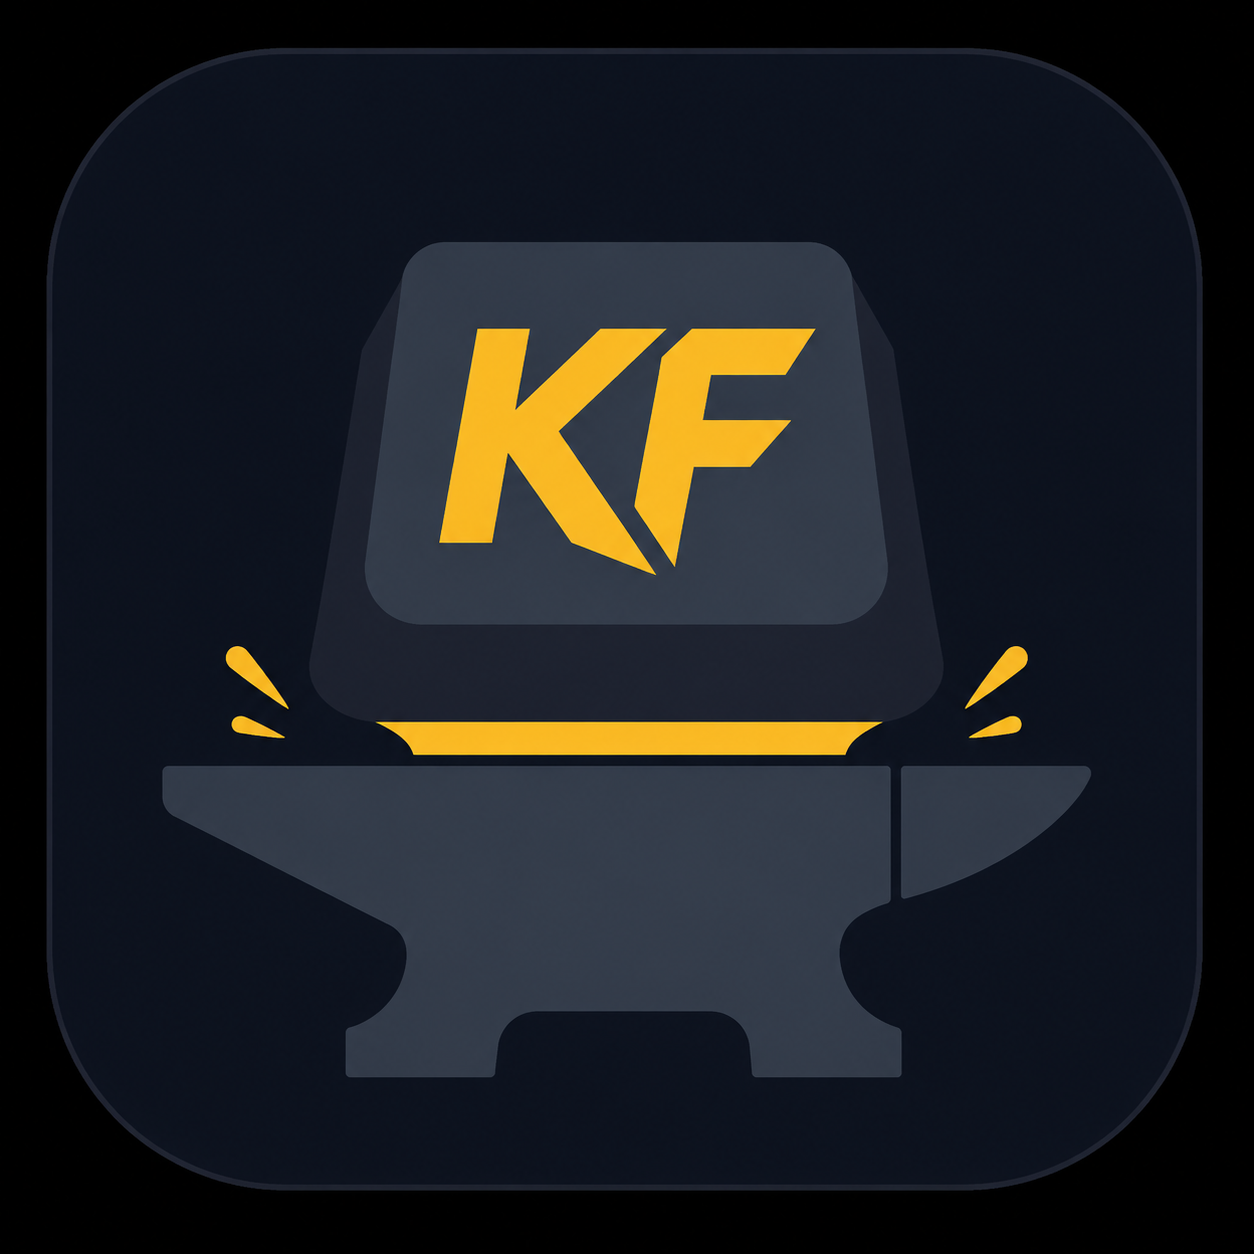
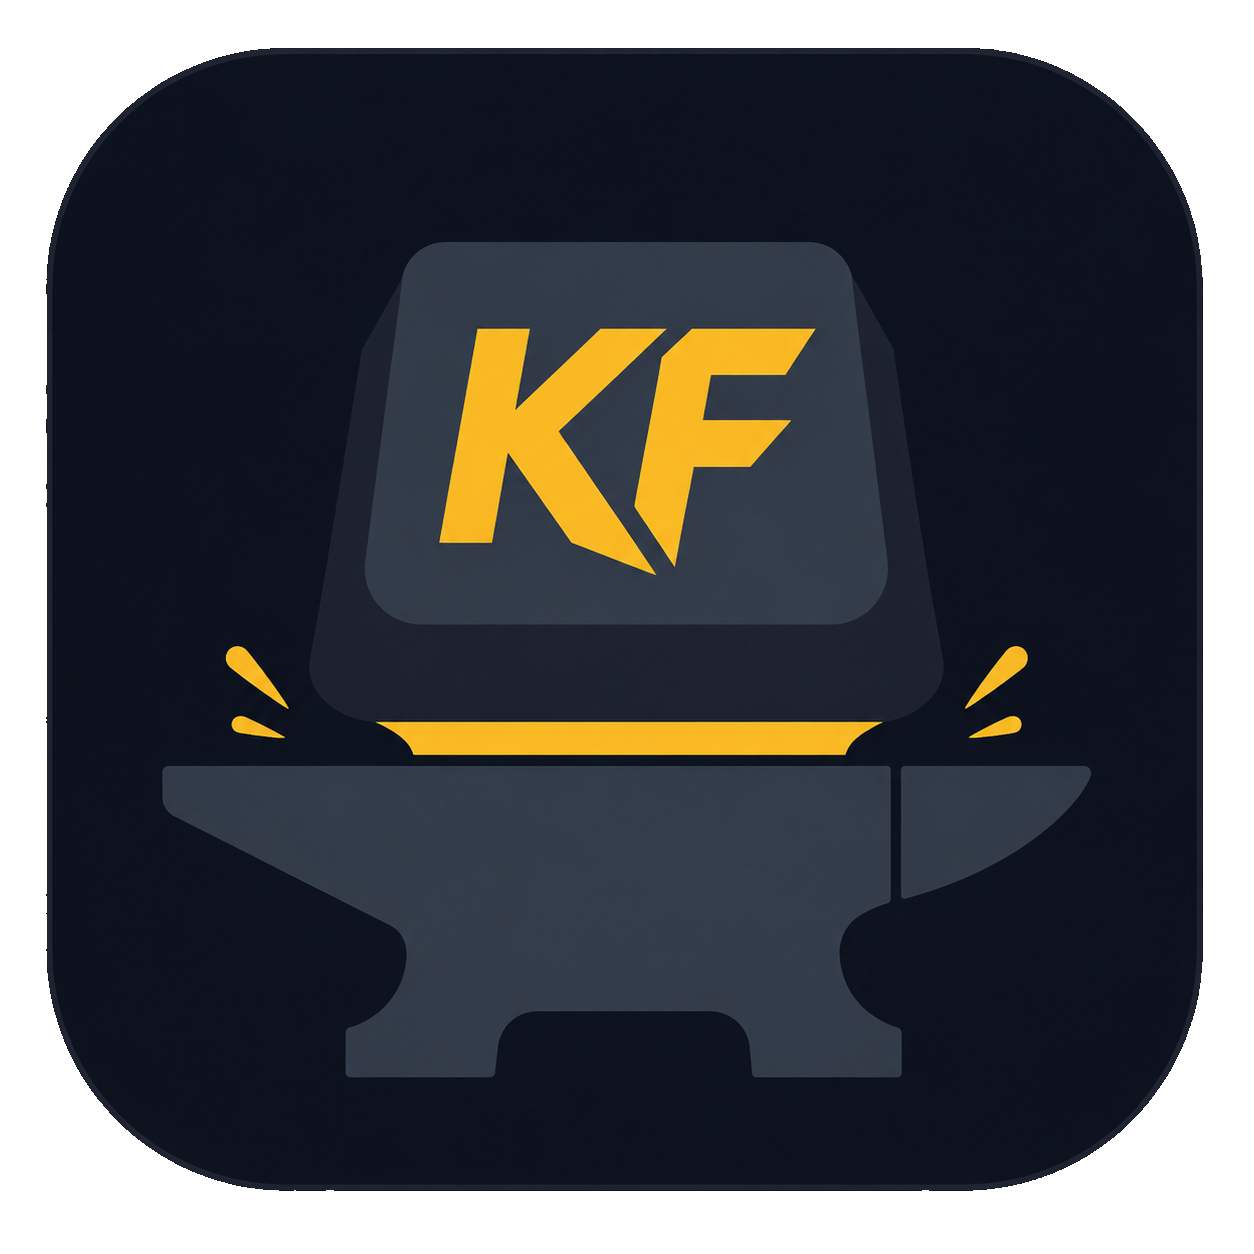
Release 0.1.26 UI cleanup

Changed region(s): [[0.0, 0.0, 1.0, 1.0]]

diff --git a/src/KeyForge.App/KeyEditorPopupWindow.xaml b/src/KeyForge.App/KeyEditorPopupWindow.xaml
@@ -8,6 +8,7 @@
         ResizeMode="NoResize"
         ShowInTaskbar="False"
         Topmost="True"
+        AllowsTransparency="True"
         Background="Transparent"
         Foreground="{DynamicResource TextBrush}"
         FontFamily="Segoe UI Variable, Segoe UI"
@@ -21,7 +22,6 @@
             <Grid Margin="0,0,0,10" MouseLeftButtonDown="TitleBar_MouseLeftButtonDown">
                 <Grid.ColumnDefinitions>
                     <ColumnDefinition Width="*" />
-                    <ColumnDefinition Width="Auto" />
                     <ColumnDefinition Width="32" />
                 </Grid.ColumnDefinitions>
                 <TextBlock x:Name="TitleText"
@@ -30,14 +30,7 @@
                            FontSize="15"
                            VerticalAlignment="Center"
                            TextTrimming="CharacterEllipsis" />
-                <StackPanel Grid.Column="1" Orientation="Horizontal" VerticalAlignment="Center">
-                    <TextBlock Text="Advanced" FontSize="10" FontWeight="SemiBold" Margin="0,0,6,0" VerticalAlignment="Center" />
-                    <CheckBox x:Name="AdvancedCheckBox"
-                              VerticalAlignment="Center"
-                              Checked="AdvancedCheckBox_Changed"
-                              Unchecked="AdvancedCheckBox_Changed" />
-                </StackPanel>
-                <Button Grid.Column="2"
+                <Button Grid.Column="1"
                         Content="&#xE8BB;"
                         Style="{StaticResource TitleBarButton}"
                         Width="28"
@@ -101,32 +94,31 @@
                 </Grid>
             </Button>
 
-            <StackPanel x:Name="AdvancedPanel" Visibility="Collapsed" Margin="0,10,0,0">
+            <StackPanel x:Name="BindingOptionsPanel" Visibility="Collapsed" Margin="0,8,0,0">
                 <Separator Background="{DynamicResource BorderBrush}" Margin="0,0,0,10" />
-                <Grid>
-                    <Grid.ColumnDefinitions>
-                        <ColumnDefinition Width="*" />
-                        <ColumnDefinition Width="*" />
-                    </Grid.ColumnDefinitions>
-                    <CheckBox x:Name="BlockOriginalCheckBox"
-                              Content="Block original"
-                              Checked="AdvancedOption_Changed"
-                              Unchecked="AdvancedOption_Changed" />
-                    <CheckBox x:Name="RepeatWhileHeldCheckBox"
-                              Grid.Column="1"
-                              Content="Repeat macro"
-                              Checked="AdvancedOption_Changed"
-                              Unchecked="AdvancedOption_Changed" />
-                </Grid>
+                <CheckBox x:Name="BlockOriginalCheckBox"
+                          Content="Block original"
+                          Checked="AdvancedOption_Changed"
+                          Unchecked="AdvancedOption_Changed" />
+            </StackPanel>
 
-                <Grid Margin="0,10,0,4">
+            <StackPanel x:Name="MacroPanel" Visibility="Collapsed" Margin="0,10,0,0">
+                <Grid Margin="0,0,0,4">
                     <Grid.ColumnDefinitions>
                         <ColumnDefinition Width="*" />
                         <ColumnDefinition Width="Auto" />
+                        <ColumnDefinition Width="Auto" />
                     </Grid.ColumnDefinitions>
                     <TextBlock Text="Macro Steps" FontWeight="SemiBold" FontSize="13" VerticalAlignment="Center" />
+                    <CheckBox x:Name="RepeatWhileHeldCheckBox"
+                              Grid.Column="1"
+                              Content="Repeat macro"
+                              Margin="0,0,12,0"
+                              VerticalAlignment="Center"
+                              Checked="AdvancedOption_Changed"
+                              Unchecked="AdvancedOption_Changed" />
                     <Button x:Name="TestMacroButton"
-                            Grid.Column="1"
+                            Grid.Column="2"
                             Content="Test Macro"
                             Click="TestMacroButton_Click"
                             MinHeight="30"
@@ -236,12 +228,15 @@
                                             </TextBlock.Style>
                                         </TextBlock>
                                     </Grid>
-                                    <TextBox Grid.Column="4"
-                                             Text="{Binding DelayMs, Mode=OneWay, TargetNullValue=''}"
-                                             LostFocus="MacroStepDelayTextBox_LostFocus"
-                                             KeyDown="MacroStepDelayTextBox_KeyDown"
-                                             Margin="4,0,4,0"
-                                             ToolTip="Delay in milliseconds" />
+                                     <TextBox Grid.Column="4"
+                                              Text="{Binding DelayMs, Mode=OneWay, TargetNullValue=''}"
+                                              LostFocus="MacroStepDelayTextBox_LostFocus"
+                                              KeyDown="MacroStepDelayTextBox_KeyDown"
+                                              HorizontalContentAlignment="Center"
+                                              VerticalContentAlignment="Center"
+                                              Padding="6,0"
+                                              Margin="4,0,4,0"
+                                              ToolTip="Delay in milliseconds" />
                                     <Button Grid.Column="5"
                                             Content="&#xE711;"
                                             FontFamily="Segoe MDL2 Assets"
@@ -260,40 +255,66 @@
 
                 <TextBlock Text="Add Step" Style="{StaticResource SectionLabel}" Margin="0,10,0,2" />
                 <Grid>
+                    <Grid.Resources>
+                        <Style x:Key="MacroComposerComboBox" TargetType="ComboBox" BasedOn="{StaticResource {x:Type ComboBox}}">
+                            <Setter Property="MinHeight" Value="30" />
+                            <Setter Property="Margin" Value="0" />
+                        </Style>
+                        <Style x:Key="MacroComposerTextBox" TargetType="TextBox" BasedOn="{StaticResource {x:Type TextBox}}">
+                            <Setter Property="MinHeight" Value="30" />
+                            <Setter Property="Padding" Value="6,0" />
+                            <Setter Property="Margin" Value="0" />
+                            <Setter Property="HorizontalContentAlignment" Value="Center" />
+                            <Setter Property="VerticalContentAlignment" Value="Center" />
+                        </Style>
+                        <Style x:Key="MacroComposerButton" TargetType="Button" BasedOn="{StaticResource {x:Type Button}}">
+                            <Setter Property="MinHeight" Value="30" />
+                            <Setter Property="Padding" Value="10,4" />
+                            <Setter Property="Margin" Value="0" />
+                        </Style>
+                    </Grid.Resources>
                     <Grid.ColumnDefinitions>
-                        <ColumnDefinition Width="112" />
-                        <ColumnDefinition Width="112" />
-                        <ColumnDefinition Width="96" />
+                        <ColumnDefinition Width="94" />
+                        <ColumnDefinition Width="86" />
                         <ColumnDefinition Width="82" />
+                        <ColumnDefinition Width="64" />
                         <ColumnDefinition Width="*" />
                     </Grid.ColumnDefinitions>
                     <ComboBox x:Name="MacroActionComboBox"
                               Grid.Column="0"
-                              Margin="0,4,5,0"
+                              Style="{StaticResource MacroComposerComboBox}"
+                              Margin="0,4,4,0"
                               SelectionChanged="MacroComposerAction_Changed" />
                     <ComboBox x:Name="MacroKeyComboBox"
                               Grid.Column="1"
-                              Margin="5,4,5,0"
+                              Style="{StaticResource MacroComposerComboBox}"
+                              Margin="4,4,4,0"
                               DisplayMemberPath="Label"
                               SelectedValuePath="Code" />
-                    <Grid x:Name="MacroDelayPlacementHost" Grid.Column="2" Margin="5,4,5,0">
-                        <ComboBox x:Name="MacroDelayPlacementComboBox" Margin="0" />
+                    <Grid x:Name="MacroDelayPlacementHost" Grid.Column="2" Margin="4,4,4,0">
+                        <ComboBox x:Name="MacroDelayPlacementComboBox"
+                                  Style="{StaticResource MacroComposerComboBox}" />
                         <TextBlock x:Name="MacroWaitOnlyText"
                                    Text="Duration"
                                    Style="{StaticResource MutedText}"
                                    VerticalAlignment="Center"
+                                   TextAlignment="Center"
                                    Visibility="Collapsed" />
                     </Grid>
                     <TextBox x:Name="MacroDelayTextBox"
                              Grid.Column="3"
+                             Style="{StaticResource MacroComposerTextBox}"
                              Text="0"
-                             Margin="5,4,5,0"
+                             Margin="4,4,4,0"
                              ToolTip="Delay in milliseconds" />
                     <Button x:Name="AddStepButton"
                             Grid.Column="4"
+                            Style="{StaticResource MacroComposerButton}"
                             Content="Add"
                             Click="AddStepButton_Click"
-                            Margin="5,4,0,0" />
+                            Width="62"
+                            HorizontalAlignment="Left"
+                            Margin="4,4,0,0" />
                 </Grid>
             </StackPanel>
 

diff --git a/src/KeyForge.App/MainWindow.xaml b/src/KeyForge.App/MainWindow.xaml
@@ -388,8 +388,14 @@
                                 <ColumnDefinition Width="1.12*" />
                             </Grid.ColumnDefinitions>
 
-                            <StackPanel Grid.Column="0" Margin="0,0,12,0">
-                                <Border Style="{StaticResource PanelCard}" Padding="14" Margin="0,0,0,12">
+                            <Grid Grid.Column="0" Margin="0,0,12,0">
+                                <Grid.RowDefinitions>
+                                    <RowDefinition Height="Auto" />
+                                    <RowDefinition Height="Auto" />
+                                    <RowDefinition Height="*" />
+                                </Grid.RowDefinitions>
+
+                                <Border Grid.Row="0" Style="{StaticResource PanelCard}" Padding="12" Margin="0,0,0,10">
                                     <StackPanel>
                                         <TextBlock Text="Updates" FontSize="18" FontWeight="Black" />
                                         <TextBlock Text="Manual release check" Style="{StaticResource SectionLabel}" Margin="0,8,0,0" />
@@ -437,7 +443,7 @@
                                     </StackPanel>
                                 </Border>
 
-                                <Border Style="{StaticResource PanelCard}" Padding="14" Margin="0,0,0,12">
+                                <Border Grid.Row="1" Style="{StaticResource PanelCard}" Padding="12" Margin="0,0,0,10">
                                     <StackPanel>
                                         <TextBlock Text="General" FontSize="17" FontWeight="Black" />
                                         <CheckBox x:Name="StartWithWindowsCheck" Content="Start with Windows" />
@@ -448,15 +454,24 @@
                                     </StackPanel>
                                 </Border>
 
-                                <Border Style="{StaticResource PanelCard}" Padding="14">
-                                    <StackPanel>
+                                <Border Grid.Row="2" Style="{StaticResource PanelCard}" Padding="12">
+                                    <Grid>
+                                        <Grid.RowDefinitions>
+                                            <RowDefinition Height="Auto" />
+                                            <RowDefinition Height="*" />
+                                        </Grid.RowDefinitions>
                                         <TextBlock Text="Fair Play / Anti-Cheat" FontSize="17" FontWeight="Black" />
-                                        <TextBlock Text="KeyForge only remaps keyboard input; it does not read game memory or interact with game files. Use profiles only where allowed; you are responsible for following game rules."
-                                                   Style="{StaticResource MutedText}"
-                                                   Margin="0,10,0,0" />
-                                    </StackPanel>
+                                        <ScrollViewer Grid.Row="1"
+                                                      Margin="0,8,0,0"
+                                                      VerticalScrollBarVisibility="Auto"
+                                                      HorizontalScrollBarVisibility="Disabled">
+                                            <TextBlock Text="KeyForge only remaps keyboard input; it does not read game memory or interact with game files. Use profiles only where allowed; you are responsible for following game rules."
+                                                       Style="{StaticResource MutedText}"
+                                                       TextWrapping="Wrap" />
+                                        </ScrollViewer>
+                                    </Grid>
                                 </Border>
-                            </StackPanel>
+                            </Grid>
 
                             <StackPanel Grid.Column="1" Margin="0,0,12,0">
                                 <Border Style="{StaticResource PanelCard}" Padding="14" Margin="0,0,0,12">

diff --git a/src/KeyForge.App/KeyEditorPopupWindow.xaml.cs b/src/KeyForge.App/KeyEditorPopupWindow.xaml.cs
@@ -112,7 +112,7 @@ public partial class KeyEditorPopupWindow : Window
             MacroDelayPlacementComboBox.SelectedItem = MacroStepDelayPlacement.After;
             MacroDelayTextBox.Text = "0";
             UpdateComposerVisibility();
-            UpdateAdvancedVisibility();
+            UpdateModeSections();
             UpdateWarning();
         }
         finally
@@ -139,7 +139,7 @@ public partial class KeyEditorPopupWindow : Window
             _editingBinding.Output = _macroSteps.Select(step => step.Clone()).ToList();
         }
 
-        UpdateAdvancedVisibility();
+        UpdateModeSections();
         UpdatePreview();
         if (_editingBinding.Type == BindingType.Disabled)
         {
@@ -430,8 +430,6 @@ public partial class KeyEditorPopupWindow : Window
         LoadSelectedBinding();
     }
 
-    private void AdvancedCheckBox_Changed(object sender, RoutedEventArgs e) => UpdateAdvancedVisibility();
-
     private async void AdvancedOption_Changed(object sender, RoutedEventArgs e)
     {
         if (_isLoadingUi || _editingBinding is null)
@@ -445,12 +443,15 @@ public partial class KeyEditorPopupWindow : Window
         await SaveCurrentBindingAsync(reloadAfterSave: false);
     }
 
-    private void UpdateAdvancedVisibility()
+    private void UpdateModeSections()
     {
-        var isAdvanced = AdvancedCheckBox.IsChecked == true ||
-                         string.Equals(BindingModeComboBox.SelectedItem as string, "Macro", StringComparison.OrdinalIgnoreCase);
-        AdvancedPanel.Visibility = isAdvanced ? Visibility.Visible : Visibility.Collapsed;
-        RepeatWhileHeldCheckBox.IsEnabled = string.Equals(BindingModeComboBox.SelectedItem as string, "Macro", StringComparison.OrdinalIgnoreCase);
+        var mode = TypeFromMode(BindingModeComboBox.SelectedItem as string);
+        var isDisabled = mode == BindingType.Disabled;
+        var isMacro = mode == BindingType.Macro;
+
+        BindingOptionsPanel.Visibility = isDisabled ? Visibility.Collapsed : Visibility.Visible;
+        MacroPanel.Visibility = isMacro ? Visibility.Visible : Visibility.Collapsed;
+        RepeatWhileHeldCheckBox.IsEnabled = isMacro;
         QueueLayoutSizeChanged();
     }
 
@@ -767,7 +768,10 @@ public partial class KeyEditorPopupWindow : Window
         };
     }
 
-    public sealed record KeyOption(string Code, string Label);
+    public sealed record KeyOption(string Code, string Label)
+    {
+        public override string ToString() => Label;
+    }
 
     private enum CaptureMode
     {

diff --git a/CHANGELOG.md b/CHANGELOG.md
@@ -1,5 +1,11 @@
 # Changelog
 
+## 0.1.26
+
+- Clean up the macro Add Step editor with compact controls, centered timing fields, and readable key labels.
+- Remove the unused Advanced toggle from the binding editor and make options appear by binding mode.
+- Fix Fair Play settings text clipping and regenerate transparent app/shortcut icon assets.
+
 ## 0.1.25
 
 - Rework Settings into a cleaner three-column card layout and remove the keyboard size setting.